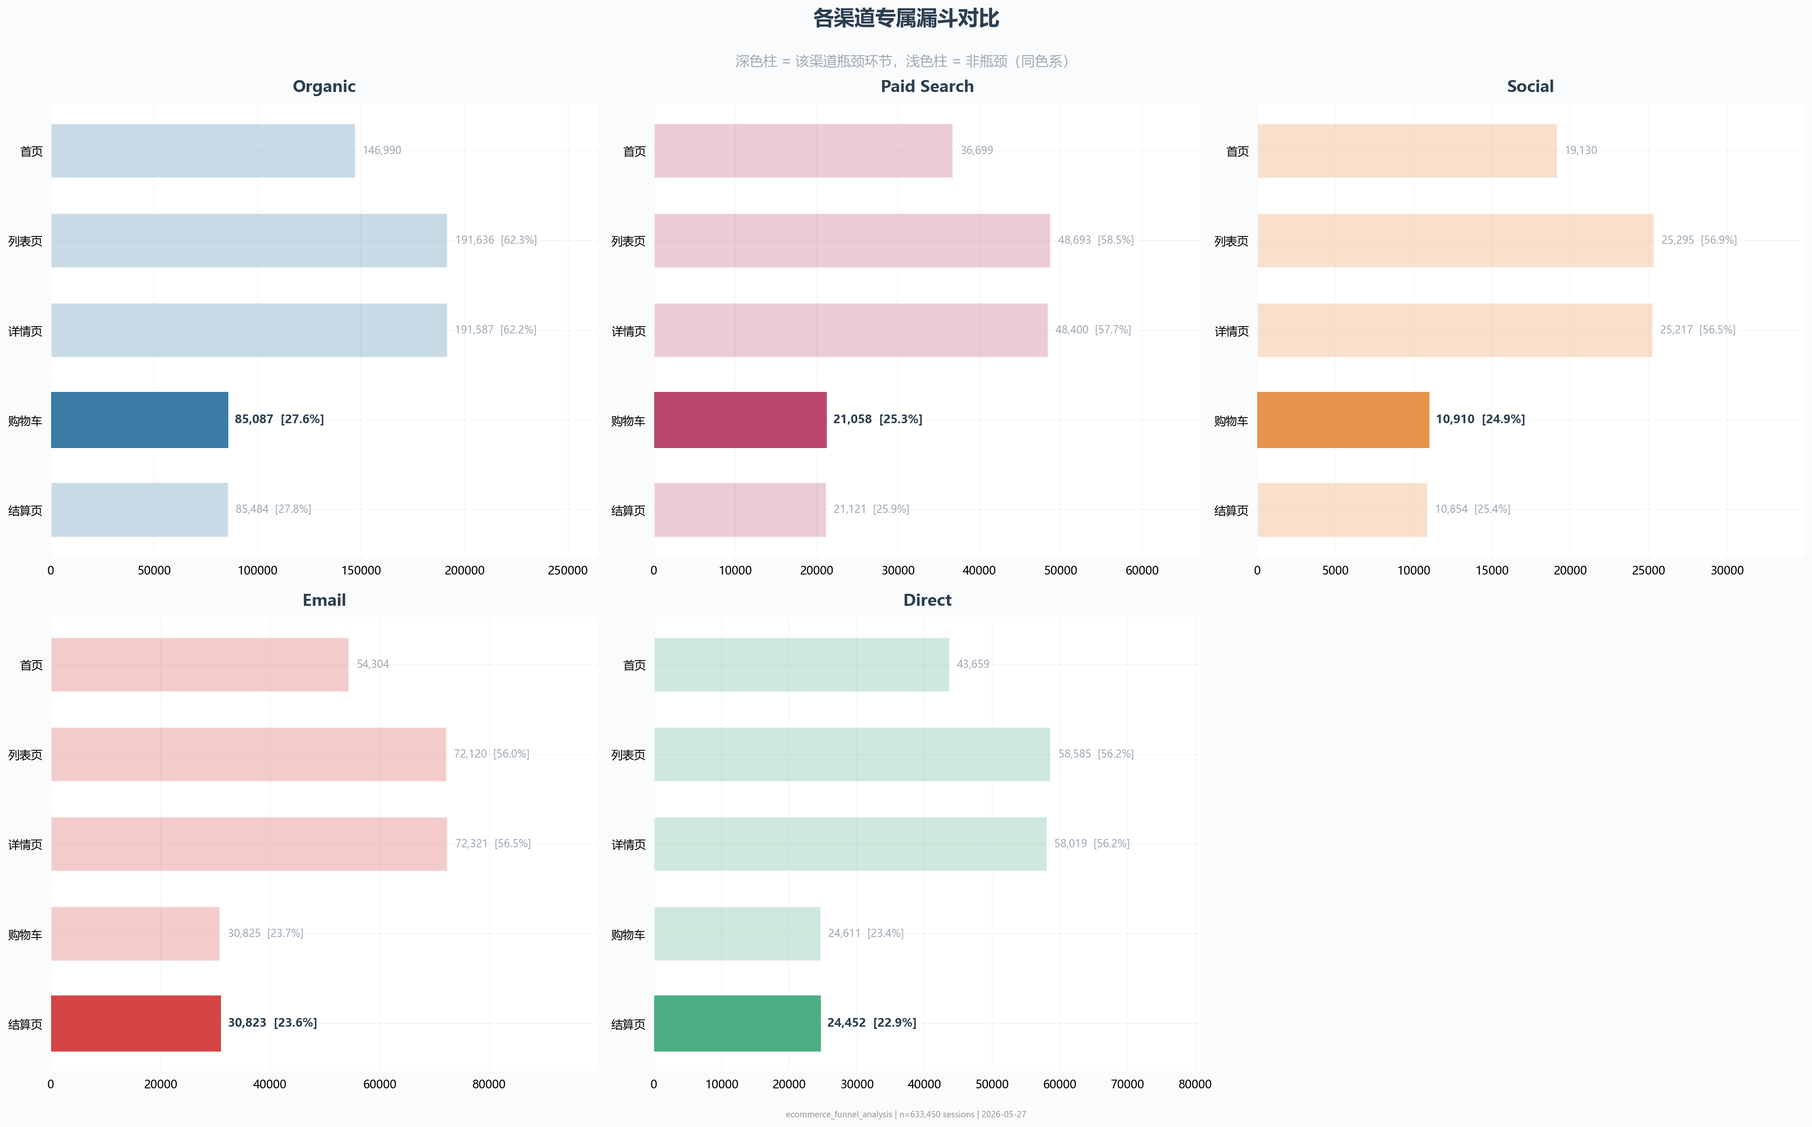
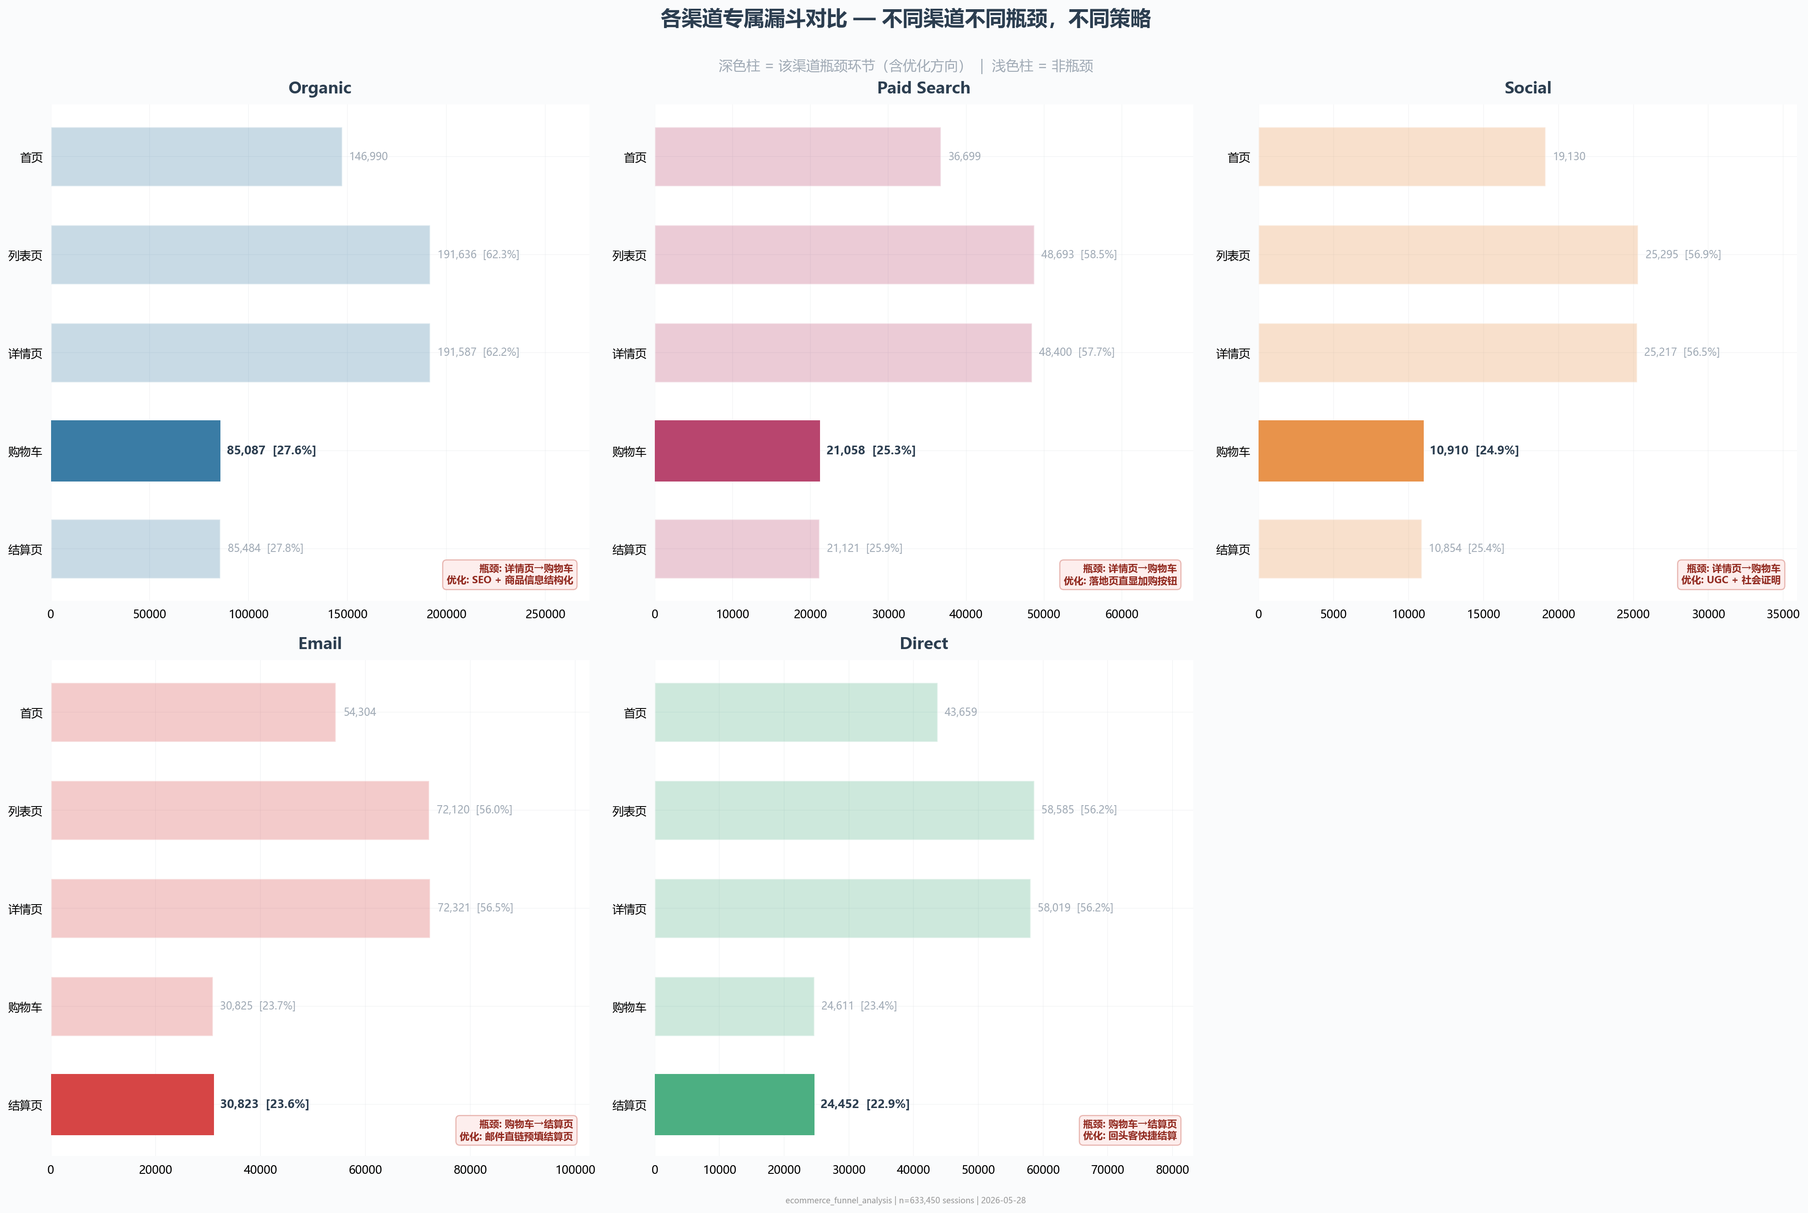
可视化强化: 30秒叙事线完整图表支撑 + Power BI 策略摘要
新增 3 张图表:
- 17_hero_kpi: Hero KPI 大字卡 (¥933万 + 瓶颈 + P0 策略, 30秒第一帧)
- 18_roi_comparison: ROI 对比 (一次性投入 vs 年挽回收入, 含ROI倍数标注)
- 18_roi_comparison: 基于 what_if 模拟 + cro_strategy 成本数据

增强 2 张现有图表:
- 03_channel_funnels: 每个子图标注瓶颈类型 + 优化方向 (不再需要读者自行解读)
- 10_pie_matrix: 气泡标注 ROI 预估 (投入/回报/倍数), 优先级+回报率一图呈现

Power BI:
- funnel_health 页顶部新增策略摘要 text box: 核心结论一句话

README:
- 新增 Hero KPI 和 ROI 对比图表展示, 频道漏斗/PIE描述更新
- 图表总计 23→28 张

diff --git a/python/visualization.py b/python/visualization.py
@@ -296,7 +296,7 @@ def plot_event_funnel(funnel_df: 'pd.DataFrame') -> None:
 # 03 — 渠道专属漏斗 (5 面板)
 # ═══════════════════════════════════════════════════════════
 def plot_channel_funnels(channel_funnels: dict[str, 'pd.DataFrame']) -> None:
-    fig = plt.figure(figsize=(22, 13))
+    fig = plt.figure(figsize=(22, 14))
 
     first_df = next(iter(channel_funnels.values()))
     _rate_col = next(
@@ -306,6 +306,15 @@ def plot_channel_funnels(channel_funnels: dict[str, 'pd.DataFrame']) -> None:
     sorted_channels = sorted(channel_funnels.keys(),
                              key=lambda ch: channel_funnels[ch].iloc[-1][_rate_col],
                              reverse=True)
+
+    # 每个渠道的瓶颈环节名称 (基于漏斗分析结果)
+    bottleneck_label_map = {
+        'Social': '瓶颈: 详情页→购物车\n优化: UGC + 社会证明',
+        'Paid Search': '瓶颈: 详情页→购物车\n优化: 落地页直显加购按钮',
+        'Organic': '瓶颈: 详情页→购物车\n优化: SEO + 商品信息结构化',
+        'Email': '瓶颈: 购物车→结算页\n优化: 邮件直链预填结算页',
+        'Direct': '瓶颈: 购物车→结算页\n优化: 回头客快捷结算',
+    }
 
     for i, ch in enumerate(sorted_channels):
         ax = fig.add_subplot(2, 3, i + 1)
@@ -357,12 +366,20 @@ def plot_channel_funnels(channel_funnels: dict[str, 'pd.DataFrame']) -> None:
             ax.text(b.get_width() + max_v * 0.02, b.get_y() + b.get_height() / 2,
                     txt, va='center', fontsize=fs, color=clr, fontweight=fw)
 
-        ax.set_xlim(0, max_v * 1.38)
+        ax.set_xlim(0, max_v * 1.42)
+
+        # 瓶颈类型标注 — 在子图右下角加文字
+        bn_text = bottleneck_label_map.get(ch, '')
+        ax.text(0.97, 0.03, bn_text, transform=ax.transAxes,
+                ha='right', va='bottom', fontsize=8.5, fontweight='bold',
+                color='#922B21',
+                bbox=dict(boxstyle='round,pad=0.4', facecolor='#FDEDEC',
+                          edgecolor='#E6B0AA', alpha=0.9))
 
     fig.delaxes(fig.add_subplot(2, 3, 6))
-    fig.suptitle('各渠道专属漏斗对比', fontsize=18, fontweight='bold',
-                 color=C_DARK, y=1.02)
-    fig.text(0.5, 0.97, '深色柱 = 该渠道瓶颈环节，浅色柱 = 非瓶颈（同色系）',
+    fig.suptitle('各渠道专属漏斗对比 — 不同渠道不同瓶颈，不同策略',
+                 fontsize=18, fontweight='bold', color=C_DARK, y=1.02)
+    fig.text(0.5, 0.97, '深色柱 = 该渠道瓶颈环节（含优化方向）  |  浅色柱 = 非瓶颈',
              fontsize=12, color=C_GREY, ha='center', va='center')
     fig.tight_layout()
     _save(fig, '03_channel_funnels')
@@ -643,22 +660,35 @@ def plot_churn_by_channel(churn_matrix: 'pd.DataFrame') -> None:
 # 10 — PIE 优先级矩阵
 # ═══════════════════════════════════════════════════════════
 def plot_pie_matrix(pie_df: 'pd.DataFrame') -> None:
-    """PIE 优先级矩阵 — 气泡图 (X=Potential, Y=Importance, 大小=PIE)"""
-    fig, ax = plt.subplots(figsize=(10, 7))
+    """PIE 优先级矩阵 — 气泡图 (X=Potential, Y=Importance, 大小=PIE) + ROI 标注"""
+
+    # ROI 速查 (from cro_strategy.md, one-time cost vs annual return)
+    roi_map = {
+        '详情页 → 购物车': 'ROI 1.5-3:1\n投入¥14万/年挽回¥20-40万',
+        '列表页 → 详情页': 'ROI >10:1\n投入¥8.5万/年挽回¥50-80万',
+        '购物车 → 结算页': 'ROI >10:1 (速赢)\n投入¥4万/年挽回¥5-10万',
+        '首页 → 列表页': 'ROI >10:1\n投入¥4.5万/年挽回¥3-6万',
+    }
+
+    fig, ax = plt.subplots(figsize=(12, 8))
     x = pie_df['Potential'].values
     y = pie_df['Importance'].values
     sizes = pie_df['PIE得分'].values * 5
     pie_labels = [l.replace(' → ', '→') for l in pie_df['漏斗环节']]
+    full_labels = pie_df['漏斗环节'].tolist()
     pie_scores = pie_df['PIE得分'].values.astype(int)
     ease_vals = pie_df['Ease'].values.astype(int)
 
     ax.scatter(x, y, s=sizes, c=C_BLUE, alpha=0.65,
                edgecolors=C_DARK, linewidth=1.0, zorder=4)
 
-    for rank, (xi, yi, label, score, e) in enumerate(zip(x, y, pie_labels, pie_scores, ease_vals), 1):
-        ax.annotate(f'#{rank} {label}\nPIE={score} (Ease={e})',
-                    (xi, yi), textcoords='offset points', xytext=(0, 12),
-                    ha='center', fontsize=9, fontweight='bold', color=C_DARK)
+    for rank, (xi, yi, label, score, e, full_lb) in enumerate(
+            zip(x, y, pie_labels, pie_scores, ease_vals, full_labels), 1):
+        roi_text = roi_map.get(full_lb, '')
+        ax.annotate(f'#{rank} {label}\nPIE={score} (Ease={e})\n{roi_text}',
+                    (xi, yi), textcoords='offset points', xytext=(0, 14),
+                    ha='center', fontsize=8, fontweight='bold', color=C_DARK,
+                    linespacing=1.2)
 
     # 象限分割线
     ax.axhline(y=5, color=C_GREY, linestyle=':', alpha=0.4, zorder=1)
@@ -668,9 +698,9 @@ def plot_pie_matrix(pie_df: 'pd.DataFrame') -> None:
 
     ax.set_xlabel('损失潜力 (Potential)', fontsize=12)
     ax.set_ylabel('流量重要性 (Importance)', fontsize=12)
-    ax.set_title('PIE 优先级矩阵', fontsize=15, pad=14)
-    ax.set_xlim(0, 11)
-    ax.set_ylim(0, 11)
+    ax.set_title('PIE 优先级矩阵 + ROI 预估', fontsize=15, pad=14)
+    ax.set_xlim(0, 11.5)
+    ax.set_ylim(0, 11.5)
     ax.tick_params(left=False, bottom=False)
     fig.tight_layout()
     _save(fig, '10_pie_matrix')
@@ -1043,6 +1073,140 @@ def plot_visit_cohort_heatmap(retention_matrix: 'pd.DataFrame') -> None:
     ax.set_ylabel('首次访问月份 (Cohort)', fontsize=12, labelpad=10)
     fig.tight_layout()
     _save(fig, '16b_visit_cohort_heatmap')
+
+
+# ═══════════════════════════════════════════════════════════
+# 17 — Hero KPI 摘要卡
+# ═══════════════════════════════════════════════════════════
+
+def plot_hero_kpi(loss_df: 'pd.DataFrame') -> None:
+    """Hero KPI 摘要图 — 大字 ¥933 万损失 + 瓶颈定位，30 秒叙事线第一帧"""
+    total_loss = loss_df['估算损失金额'].sum()
+    pdp_row = loss_df[loss_df['漏斗环节'].str.contains('详情页')]
+    if not pdp_row.empty:
+        pdp_loss = pdp_row.iloc[0]['估算损失金额']
+        pdp_rate = pdp_row.iloc[0]['环节流失率(%)']
+    else:
+        pdp_loss, pdp_rate = 0, 0
+
+    fig, ax = plt.subplots(figsize=(10, 5))
+    ax.set_xlim(0, 10)
+    ax.set_ylim(0, 10)
+    ax.axis('off')
+
+    # 主卡背景 (双层实现粗边框效果)
+    rect_outer = plt.Rectangle((0.3, 0.3), 9.4, 9.4, linewidth=4,
+                                edgecolor='#1B4F72', facecolor='none', zorder=0)
+    rect = plt.Rectangle((0.5, 0.5), 9, 9, linewidth=2, edgecolor='#5499C7',
+                          facecolor='#F8FAFB', zorder=1)
+    ax.add_patch(rect_outer)
+    ax.add_patch(rect)
+
+    # 大字: 总损失金额
+    ax.text(5, 7.2, f'¥{total_loss:,.0f}', ha='center', va='center',
+            fontsize=64, fontweight='bold', color='#922B21')
+
+    # 标签
+    ax.text(5, 5.3, '年预估转化损失', ha='center', va='center',
+            fontsize=18, color='#5D6D7E')
+
+    # 瓶颈定位
+    ax.text(5, 3.3, f'核心瓶颈: 详情页→购物车 交叉到达率仅 25.81%',
+            ha='center', va='center', fontsize=13, fontweight='bold', color=C_DARK)
+    ax.text(5, 2.3, f'该环节年损失 ¥{pdp_loss:,.0f}（占全链路 {pdp_loss/total_loss*100:.0f}%）'
+            f'  |  74% 用户看完没加购',
+            ha='center', va='center', fontsize=11, color='#7F8C8D')
+
+    # 底部策略提示
+    ax.text(5, 1.0, 'P0 优先级: 详情页改版  |  预期 ROI 1.5-3:1  |  详见 PIE 矩阵 & CRO 策略文档',
+            ha='center', va='center', fontsize=10, color=C_BLUE, style='italic')
+
+    fig.tight_layout(pad=0)
+    _save(fig, '17_hero_kpi')
+
+
+# ═══════════════════════════════════════════════════════════
+# 18 — ROI 对比图 (一次性成本 vs 年挽回收入)
+# ═══════════════════════════════════════════════════════════
+
+def plot_roi_comparison(sim_df: 'pd.DataFrame', loss_df: 'pd.DataFrame') -> None:
+    """ROI 对比柱状图 — 一次性投入 vs 年预期挽回，从 what-if 模拟 + CRO 策略成本数据生成"""
+
+    # 策略成本 (from cro_strategy.md)
+    cost_map = {
+        '详情页 → 购物车': 140_000,
+        '列表页 → 详情页': 85_000,
+        '购物车 → 结算页': 40_000,
+        '首页 → 列表页': 45_000,
+    }
+    # 短标签
+    short_label = {
+        '详情页 → 购物车': '详情页→购物车',
+        '列表页 → 详情页': '列表页→详情页',
+        '购物车 → 结算页': '购物车→结算页',
+        '首页 → 列表页': '首页→列表页',
+    }
+
+    # 匹配 sim_df 与 cost_map
+    sim_rows = []
+    for _, row in sim_df.iterrows():
+        label = row['优化环节']
+        recovered = row['预期增量收入']
+        cost = cost_map.get(label, 0)
+        sim_rows.append({
+            'label': short_label.get(label, label),
+            'cost': cost,
+            'recovered': recovered,
+            'roi_ratio': recovered / cost if cost > 0 else 0,
+        })
+
+    # 按 ROI 排序
+    sim_rows.sort(key=lambda r: r['roi_ratio'], reverse=True)
+    labels = [r['label'] for r in sim_rows]
+    costs = [r['cost'] for r in sim_rows]
+    recovered = [r['recovered'] for r in sim_rows]
+    rois = [r['roi_ratio'] for r in sim_rows]
+
+    fig, ax = plt.subplots(figsize=(12, 6))
+    x = np.arange(len(labels))
+    w = 0.32
+
+    bars_cost = ax.bar(x - w/2, [c/10000 for c in costs], w,
+                       color='#D55E00', alpha=0.82, edgecolor='white',
+                       linewidth=1, label='一次性投入 (万元)', zorder=3)
+    bars_gain = ax.bar(x + w/2, [r/10000 for r in recovered], w,
+                       color='#009E73', alpha=0.82, edgecolor='white',
+                       linewidth=1, label='年预期挽回 (万元)', zorder=3)
+
+    # 标注金额和 ROI
+    for i in range(len(labels)):
+        cy = costs[i] / 10000
+        ry = recovered[i] / 10000
+        # 成本标注
+        ax.text(i - w/2, cy + max(costs)/10000 * 0.02,
+                f'¥{costs[i]/10000:.1f}万', ha='center', fontsize=9,
+                color='#922B21', fontweight='bold')
+        # 收入标注
+        ax.text(i + w/2, ry + max(recovered)/10000 * 0.02,
+                f'¥{recovered[i]/10000:.1f}万', ha='center', fontsize=9,
+                color='#1E8449', fontweight='bold')
+        # ROI ratio 标注在两组柱之间顶部
+        top_y = max(cy, ry)
+        ax.text(i, top_y + max(max(costs), max(recovered))/10000 * 0.11,
+                f'ROI {rois[i]:.1f}:1', ha='center', fontsize=11,
+                fontweight='bold', color=C_DARK,
+                bbox=dict(boxstyle='round,pad=0.25', facecolor='#FEF9E7',
+                          edgecolor='#E69F00', alpha=0.85))
+
+    ax.set_xticks(x)
+    ax.set_xticklabels(labels, fontsize=11)
+    ax.set_ylabel('金额 (万元)', fontsize=12, labelpad=10)
+    ax.set_title('CRO 策略 ROI 对比 — 一次性投入 vs 年预期挽回收入',
+                 fontsize=15, pad=18, color=C_DARK)
+    ax.legend(fontsize=11, framealpha=0.9, edgecolor=CL_GREY, loc='upper left')
+    ax.set_ylim(0, max(max(costs), max(recovered))/10000 * 1.35)
+    fig.tight_layout()
+    _save(fig, '18_roi_comparison')
 
 
 # ═══════════════════════════════════════════════════════════

diff --git a/python/main.py b/python/main.py
@@ -35,7 +35,7 @@ from python.visualization import (
     plot_churn_by_channel, plot_pie_matrix, plot_category_funnel,
     plot_strict_vs_coverage, plot_deep_link_comparison,
     plot_new_vs_returning, plot_weekend_comparison, plot_cohort_heatmap,
-    plot_visit_cohort_heatmap,
+    plot_visit_cohort_heatmap, plot_hero_kpi, plot_roi_comparison,
     plot_page_funnel_interactive, plot_event_funnel_interactive,
     plot_strict_page_funnel, plot_strict_page_funnel_interactive,
     set_chart_meta,
@@ -161,16 +161,17 @@ def _run_stage6_strategy_and_baseline(funnel_wide, loss_df):
 
 
 def _run_visualization(funnel_wide, cleaning_stats, stage3, loss_df, pie_df,
-                       churn_matrix, churn_features):
+                       churn_matrix, churn_features, sim_df):
     """生成全部图表 — 单图失败不中断其他图"""
     set_chart_meta(len(funnel_wide))
     t_viz = time.time()
     logger.info("=" * 60)
-    logger.info("生成可视化图表 (25 张: 22 静态 PNG + 3 交互式 HTML)")
+    logger.info("生成可视化图表 (28 张: 25 静态 PNG + 3 交互式 HTML)")
     logger.info("=" * 60)
 
     plots = [
         ('00_cleaning_funnel', plot_cleaning_funnel, cleaning_stats),
+        ('17_hero_kpi', plot_hero_kpi, loss_df),
         ('01_page_funnel', plot_page_funnel, stage3['page_funnel']),
         ('02_event_funnel', plot_event_funnel, stage3['event_funnel']),
         ('03_channel_funnels', plot_channel_funnels, stage3['channel_funnels']),
@@ -182,6 +183,7 @@ def _run_visualization(funnel_wide, cleaning_stats, stage3, loss_df, pie_df,
         ('08_duration_conversion', plot_duration_conversion, stage3['duration_df']),
         ('09_churn_by_channel', plot_churn_by_channel, churn_matrix),
         ('10_pie_matrix', plot_pie_matrix, pie_df),
+        ('18_roi_comparison', plot_roi_comparison, sim_df, loss_df),
         ('11_category_funnel', plot_category_funnel, stage3['cat_df']),
         ('12_strict_vs_coverage', plot_strict_vs_coverage, stage3['strict_funnel']),
         ('13_deep_link_analysis', plot_deep_link_comparison,
@@ -237,7 +239,7 @@ def main() -> None:
         "阶段 6/6: 策略摘要 + 基准快照 + What-If",
         _run_stage6_strategy_and_baseline, funnel_wide, loss_df)
     _run_visualization(funnel_wide, cleaning_stats, stage3, loss_df, pie_df,
-                       churn_matrix, churn_features)
+                       churn_matrix, churn_features, sim_df)
 
     total_elapsed = time.time() - t_start
     logger.info("=" * 60)

diff --git a/README.md b/README.md
@@ -5,7 +5,7 @@
 [![Python](https://img.shields.io/badge/Python-3.13+-3776AB?logo=python&logoColor=white)](https://www.python.org/)
 [![MySQL](https://img.shields.io/badge/MySQL-8.4-4479A1?logo=mysql&logoColor=white)](https://www.mysql.com/)
 [![SciPy](https://img.shields.io/badge/SciPy-Statistical_Tests-8CAAE6?logo=scipy&logoColor=white)](https://scipy.org/)
-[![Matplotlib](https://img.shields.io/badge/Matplotlib-25_Charts-11557C?logo=python&logoColor=white)](https://matplotlib.org/)
+[![Matplotlib](https://img.shields.io/badge/Matplotlib-28_Charts-11557C?logo=python&logoColor=white)](https://matplotlib.org/)
 [![Plotly](https://img.shields.io/badge/Plotly-Interactive-3F4F75?logo=plotly&logoColor=white)](https://plotly.com/)
 [![Pandas](https://img.shields.io/badge/Pandas-Data_Wrangling-150458?logo=pandas&logoColor=white)](https://pandas.pydata.org/)
 [![Power BI](https://img.shields.io/badge/Power_BI-PBIR_Report-F2C811?logo=powerbi&logoColor=black)](https://powerbi.microsoft.com/)
@@ -146,6 +146,14 @@
 
 > **年损失 ¥933 万**（首页 KPI）→ **74% 的用户在详情页看完没加购**（瓶颈定位）→ **详情页改版是 P0，预期 ROI 1.5-3:1**（可执行策略）→ **不同渠道需不同方案**：Social / Paid Search 优化详情页，Email / Direct 优化结算页（差异化落地）。
 
+以下图表和 Power BI 报表完整支撑这条叙事线的每个节点：
+
+### Hero KPI — 一图定调
+
+大字 ¥9,328,840 + 瓶颈定位 + 策略提示。面试官看这第一张图就知道项目做了什么、值多少钱。
+
+![Hero KPI](output/charts/17_hero_kpi.png)
+
 ### 页面漏斗 — 一图定位瓶颈
 
 详情页→购物车交叉到达率仅 25.81%。74% 的用户在详情页看完后没有把商品加入购物车。这是整个漏斗的断裂带。
@@ -160,7 +168,7 @@
 
 ### 渠道漏斗对比 — 不同渠道需要不同策略
 
-三个渠道（Social、Paid Search、Organic）的核心瓶颈在详情页→购物车，但 Email 和 Direct 渠道的瓶颈在购物车→结算页——邮件链接直达购物车后，结算体验成为断裂带。渠道不同，优化重点也不同。
+三个渠道（Social、Paid Search、Organic）的核心瓶颈在详情页→购物车，但 Email 和 Direct 渠道的瓶颈在购物车→结算页——邮件链接直达购物车后，结算体验成为断裂带。图中每个子图已显式标注瓶颈类型和优化方向，不再需要读者自行解读深色柱含义。
 
 ![渠道漏斗](output/charts/03_channel_funnels.png)
 
@@ -178,9 +186,15 @@
 
 ### PIE 优先级矩阵 — 告诉你先做什么
 
-PIE = Potential × Importance × Ease（WiderFunnel 方法论，10 分制）。详情页→购物车得分最高（P=4.0, I=5.1, E=6.0 → 122 分），落在高影响+高易实施象限，是 P0 中的 P0。购物车→结算页虽然 Ease 最高（8.0），但 Potential 和 Importance 太低，优先级反而最低。
+PIE = Potential × Importance × Ease（WiderFunnel 方法论，10 分制）。详情页→购物车得分最高（P=4.0, I=5.1, E=6.0 → 122 分），落在高影响+高易实施象限。每个气泡已标注 ROI 预估（一次性投入 vs 年挽回收入），实现优先级 + 回报率在一张图上同时呈现。
 
 ![PIE矩阵](output/charts/10_pie_matrix.png)
+
+### ROI 对比 — 投入产出可视化
+
+一次性投入 vs 年预期挽回收入，基于 What-If 模拟数据（"PDP→Cart 提升 10pp"等三个场景）+ cro_strategy.md 实施成本。购物车→结算页 ROI 最高（>10:1，速赢），详情页→购物车绝对回报最大但投入也最高。
+
+![ROI对比](output/charts/18_roi_comparison.png)
 
 ### 新老用户漏斗对比 — 两类用户的行为差异
 
@@ -398,14 +412,14 @@ ecommerce_funnel_analysis/
 │   ├── data_loader.py        # 五表加载 + 探查 + 质量报告
 │   ├── data_cleaning.py      # 会话异常值清洗 + 漏斗宽表
 │   ├── funnel_analysis.py    # 20+ 分析函数 (双漏斗/多维诊断/统计检验/损失量化)
-│   ├── visualization.py      # 23 张图表 (matplotlib + plotly)
+│   ├── visualization.py      # 28 张图表 (matplotlib + plotly)
 │   └── main.py               # 主入口 (支持 --skip-viz / --output)
 ├── sql/                      # 8 个独立 SQL 脚本 (MySQL 8.4)
 ├── powerbi/                  # Power BI PBIR 报表 (5 页交互式 + PNG 预览)
 ├── docs/                     # 分析文档 + 多 AI 交叉 review 记录
 ├── operations/               # CRO 策略详情 (含实施成本 + ROI 估算)
 ├── .openclaw/                # OpenClaw 工作区配置
-├── output/charts/            # 23 张可视化图表
+├── output/charts/            # 28 张可视化图表
 └── tests/                    # pytest 单元测试 + 集成测试
 ```
 
